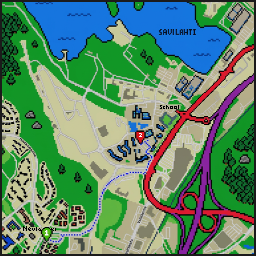
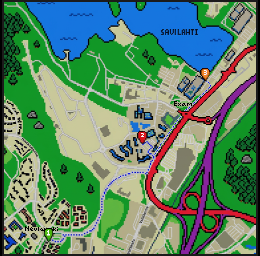
Map adjusted

diff --git a/public/puzzle-8/config.js b/public/puzzle-8/config.js
@@ -125,7 +125,8 @@ Game.MAP_TRANSITIONS = {
         },
         byCoord: {
             '14,50': { targetMap: '/puzzle-8/data/Laitos.csv', targetX: 5, targetY: 2, requiredItem: 'Nappi avain' },
-            '16,42': { targetMap: '/puzzle-8/data/Laitos.csv', targetX: 5, targetY: 2, requiredItem: 'Nappi avain' }
+            '16,42': { targetMap: '/puzzle-8/data/Laitos.csv', targetX: 5, targetY: 2, requiredItem: 'Nappi avain' },
+            '53,0': { targetMap: '/puzzle-8/data/snellmania.csv', targetX: 52, targetY: 79 }
         }
     },
     'House': {
@@ -143,7 +144,12 @@ Game.MAP_TRANSITIONS = {
         edgeTransitions: {
             top: { targetMap: '/puzzle-8/data/savilahti.csv', targetX: 14, targetY: 51 }
         }
-    }
+    },
+    'snellmania': {
+        byCoord: {
+            '52,79': { targetMap: '/puzzle-8/data/savilahti.csv', targetX: 53, targetY: 0 }
+        }
+    },
 };
 
 Game.SAME_MAP_TELEPORTS = {

diff --git a/public/puzzle-8/systems/Backpack.js b/public/puzzle-8/systems/Backpack.js
@@ -513,6 +513,13 @@ Game.Backpack = class Backpack {
             ],
             'default': [
                 { condition: () => true, x: -31, y: 90 }
+            ],
+            'snellmania': [
+                {
+                    // Starting region for snellmania
+                    condition: (x, y) => true,
+                    x: 72, y: -35
+                }
             ]
         };
 
